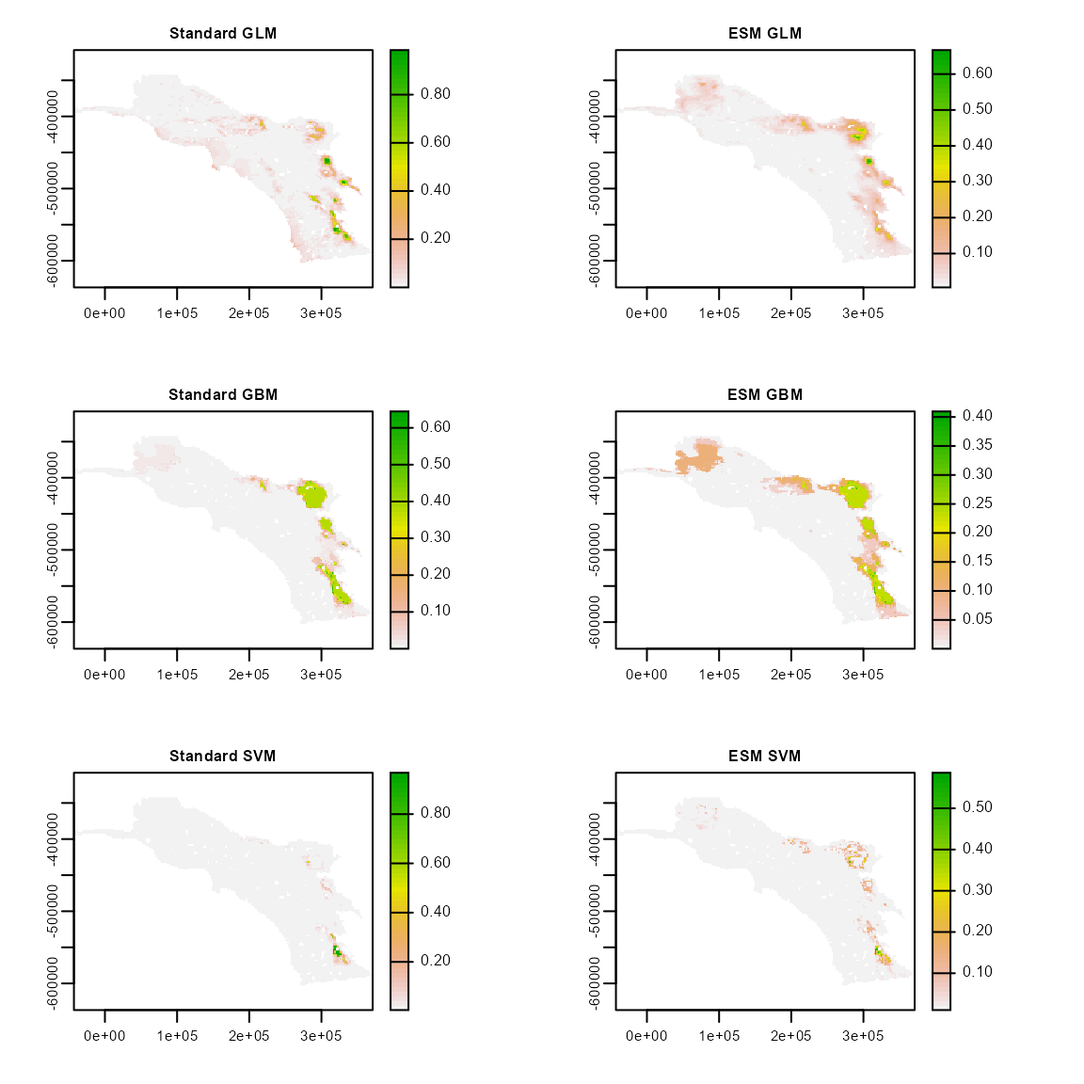
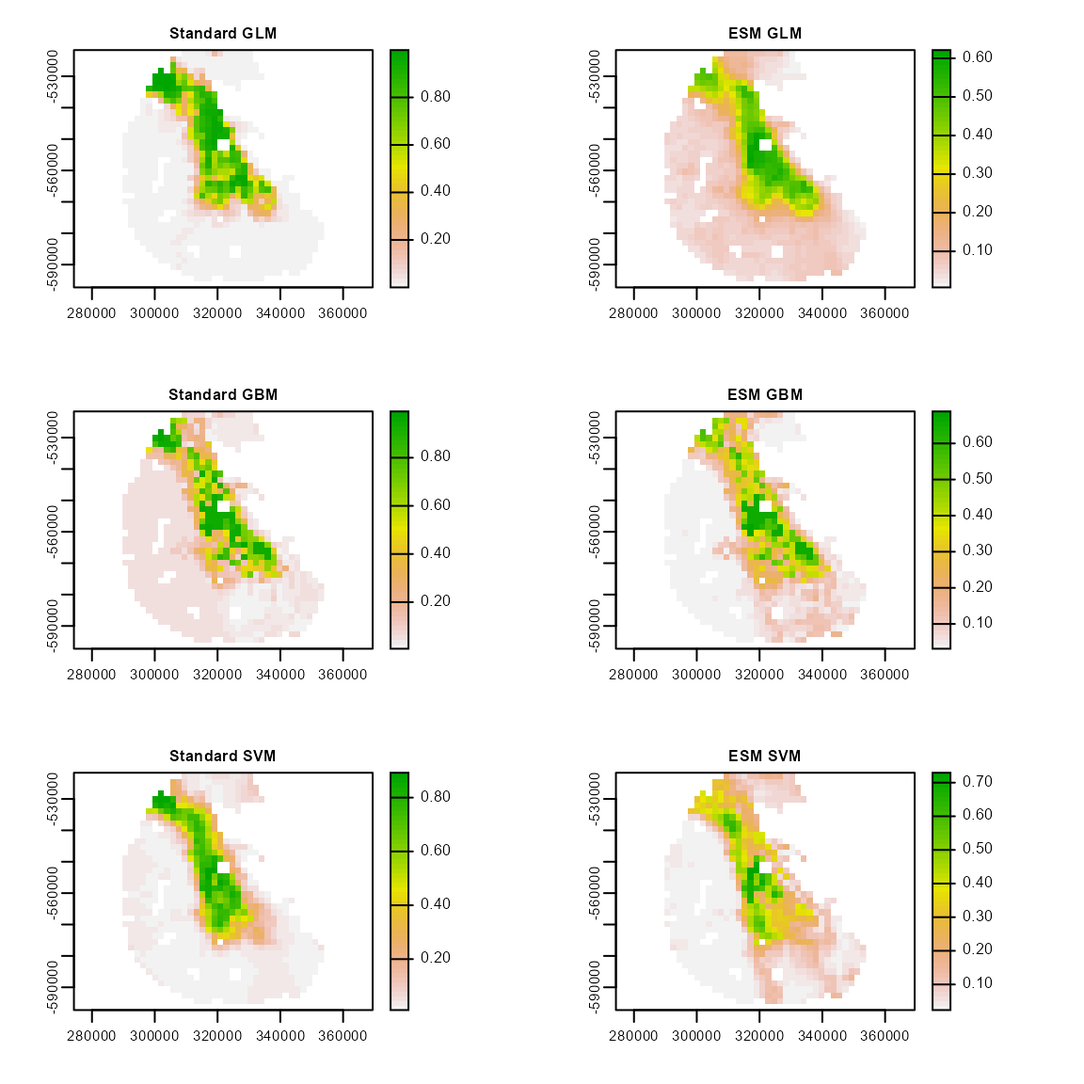
some changes in vignette 5

diff --git a/docs/articles/05_Rare_species_example.html b/docs/articles/05_Rare_species_example.html
@@ -98,68 +98,77 @@
 <div id="intro" class="section level1">
 <h1 class="hasAnchor">
 <a href="#intro" class="anchor"></a>Intro</h1>
-<p>Creating SDMs for rare or poorly known species can be a difficult task. Occurrence data are often limited to only a few observation, which can lead to model overfitting, especially when using many predictor variables to build models. However, researchers are often most interested in building SDMs for rare species, with the intent of identifying potential sampling locations or prioritizing conservation areas.</p>
+<p>Creating SDMs for rare or poorly known species can be a difficult task. Occurrence data are often limited to only a few observation, which can lead to model overfitting, especially when using many predictor variables to build models. However, researchers are often most interested in building SDMs for rare species, as they are often the most threatened and in need of conservation action.</p>
 <p>To address the issues associated with modeling the spatial distributions of rare species, Lomba et al. (2010) and Breiner et al. (2015) proposed the method “ensemble of small models” or ESM. In ESM, many bivariate models with pairwise combinations of each predictor variable, then an ensemble is performed. In <em>flexsdm</em>, the ensemble is created using the average of suitability across all of the “small models”, weighted by Somers’ D (D = 2 * (AUC-.5)). It is important to note that this method does not allow the use of categorical variables (such as soil type).</p>
-</div>
-<div id="dubos-et-al-2021-combine-interesting-approaches-for-modeling-rare-species-" class="section level1">
-<h1 class="hasAnchor">
-<a href="#dubos-et-al-2021-combine-interesting-approaches-for-modeling-rare-species-" class="anchor"></a>Dubos et al 2021 combine interesting approaches for modeling rare species.</h1>
-<p>In this example, we will walk through the process of comparing ESM to traditional modeling approaches for <em>Hesperocyparis stephensonii</em> (Cuyamaca cypress), a conifer tree species that is endemic to southern California. This species is listed as Critically Endangered by the IUCN and is only found in the headwaters of King Creek in San Diego County. The Cedar Fire of 2003 left only 30-40 surviving trees.</p>
+<p>The practical applications of ESMs could include identifying areas for reintroduction of rare species or areas for establishing new populations, especially in the face of climate change. For example, Dubos et al. (2021) used a variation of ESM to identify areas that may remain suitable under climate change for two rare species from Madagascar: the golden mantella frog (<em>Mantella aurantiaca</em>) and the Manapany day gecko (<em>Phelsuma inexpectata</em>).</p>
+<p>In this example, we will walk through the process of comparing ESM to traditional modeling approaches for <em>Hesperocyparis stephensonii</em> (Cuyamaca cypress), a conifer tree species that is endemic to southern California. This species is listed as Critically Endangered by the IUCN and is only found in the headwaters of King Creek in San Diego County. The Cedar Fire of 2003 left only 30-40 surviving trees. In this hypothetical example, we are searching for suitable areas where it might be possible to establish new populations of this species, with the hopes of decreasing the species’ future extinction risk.</p>
 <div id="data" class="section level2">
 <h2 class="hasAnchor">
 <a href="#data" class="anchor"></a>Data</h2>
-<p>For our models, we will use four environmental variables that influence plant distributions in California: available evapotranspiration (aet), climatic water deficit (cwd), maximum temperature of the warmest month (tmx), and minimum temperature of the coldest month (tmn). Our occurrence data include 13 geo-referenced observations downloaded from the online database CalFlora.</p>
+<p>For our models, we will use four environmental variables that influence plant distributions in California: available evapotranspiration (aet), climatic water deficit (cwd), maximum temperature of the warmest month (tmx), and minimum temperature of the coldest month (tmn). Our occurrence data include 21 geo-referenced observations downloaded from the online database Calflora.</p>
 <div class="sourceCode" id="cb1"><pre class="downlit sourceCode r">
 <code class="sourceCode R"><span class="co"># devtools::install_github('sjevelazco/flexsdm')</span>
 <span class="kw"><a href="https://rdrr.io/r/base/library.html">library</a></span><span class="op">(</span><span class="va">flexsdm</span><span class="op">)</span>
 <span class="kw"><a href="https://rdrr.io/r/base/library.html">library</a></span><span class="op">(</span><span class="va"><a href="https://rspatial.org/terra/">terra</a></span><span class="op">)</span>
 <span class="kw"><a href="https://rdrr.io/r/base/library.html">library</a></span><span class="op">(</span><span class="va"><a href="https://dplyr.tidyverse.org">dplyr</a></span><span class="op">)</span>
 
+<span class="co"># environmental data</span>
 <span class="va">somevar</span> <span class="op">&lt;-</span> <span class="fu"><a href="https://rdrr.io/r/base/system.file.html">system.file</a></span><span class="op">(</span><span class="st">"external/somevar.tif"</span>, package <span class="op">=</span> <span class="st">"flexsdm"</span><span class="op">)</span>
-<span class="va">somevar</span> <span class="op">&lt;-</span> <span class="fu">terra</span><span class="fu">::</span><span class="fu"><a href="https://rdrr.io/pkg/terra/man/rast.html">rast</a></span><span class="op">(</span><span class="va">somevar</span><span class="op">)</span> <span class="co"># environmental data</span>
+<span class="va">somevar</span> <span class="op">&lt;-</span> <span class="fu">terra</span><span class="fu">::</span><span class="fu"><a href="https://rdrr.io/pkg/terra/man/rast.html">rast</a></span><span class="op">(</span><span class="va">somevar</span><span class="op">)</span> 
 <span class="fu"><a href="https://rdrr.io/pkg/terra/man/names.html">names</a></span><span class="op">(</span><span class="va">somevar</span><span class="op">)</span> <span class="op">&lt;-</span> <span class="fu"><a href="https://rdrr.io/pkg/terra/man/c.html">c</a></span><span class="op">(</span><span class="st">"aet"</span>, <span class="st">"cwd"</span>, <span class="st">"tmx"</span>, <span class="st">"tmn"</span><span class="op">)</span>
 
-<span class="fu"><a href="https://rdrr.io/r/utils/data.html">data</a></span><span class="op">(</span><span class="st">"hespero"</span><span class="op">)</span>
-
+<span class="co"># species occurence data (presence-only)</span>
+<span class="fu"><a href="https://rdrr.io/r/utils/data.html">data</a></span><span class="op">(</span><span class="va">hespero</span><span class="op">)</span>
 <span class="va">hespero</span> <span class="op">&lt;-</span> <span class="va">hespero</span> <span class="op">%&gt;%</span> <span class="fu">dplyr</span><span class="fu">::</span><span class="fu"><a href="https://dplyr.tidyverse.org/reference/select.html">select</a></span><span class="op">(</span><span class="op">-</span><span class="va">id</span><span class="op">)</span>
 
-<span class="co"># visualize the species occurrences</span>
-<span class="va">layer1</span> <span class="op">&lt;-</span> <span class="op">(</span><span class="va">somevar</span><span class="op">[[</span><span class="fl">1</span><span class="op">]</span><span class="op">]</span><span class="op">)</span>
-<span class="va">layer1</span><span class="op">[</span><span class="op">!</span><span class="fu"><a href="https://rdrr.io/r/base/NA.html">is.na</a></span><span class="op">(</span><span class="va">layer1</span><span class="op">)</span><span class="op">]</span> <span class="op">&lt;-</span> <span class="fl">1</span>
-<span class="va">layer1</span> <span class="op">&lt;-</span> <span class="fu">raster</span><span class="fu">::</span><span class="fu"><a href="https://rdrr.io/pkg/raster/man/raster.html">raster</a></span><span class="op">(</span><span class="va">layer1</span><span class="op">)</span>
+<span class="co"># California ecoregions</span>
+<span class="va">regions</span> <span class="op">&lt;-</span> <span class="fu"><a href="https://rdrr.io/r/base/system.file.html">system.file</a></span><span class="op">(</span><span class="st">"external/regions.tif"</span>, package <span class="op">=</span> <span class="st">"flexsdm"</span><span class="op">)</span>
+<span class="va">regions</span> <span class="op">&lt;-</span> <span class="fu">terra</span><span class="fu">::</span><span class="fu"><a href="https://rdrr.io/pkg/terra/man/rast.html">rast</a></span><span class="op">(</span><span class="va">regions</span><span class="op">)</span>
+<span class="va">regions</span> <span class="op">&lt;-</span> <span class="fu"><a href="https://rdrr.io/pkg/terra/man/as.spatvector.html">as.polygons</a></span><span class="op">(</span><span class="va">regions</span><span class="op">)</span>
+<span class="va">sp_region</span> <span class="op">&lt;-</span> <span class="fu">terra</span><span class="fu">::</span><span class="fu"><a href="https://rdrr.io/pkg/terra/man/subset.html">subset</a></span><span class="op">(</span><span class="va">regions</span>, <span class="va">regions</span><span class="op">$</span><span class="va">category</span> <span class="op">==</span> <span class="st">"SCR"</span><span class="op">)</span> <span class="co"># ecoregion where *Hesperocyparis stephensonii* is found</span>
 
-<span class="fu"><a href="https://rdrr.io/pkg/terra/man/plot.html">plot</a></span><span class="op">(</span><span class="va">layer1</span>, col<span class="op">=</span><span class="st">"gray80"</span>, legend<span class="op">=</span><span class="cn">FALSE</span>, axes<span class="op">=</span><span class="cn">FALSE</span><span class="op">)</span>
-<span class="fu"><a href="https://rdrr.io/pkg/terra/man/lines.html">points</a></span><span class="op">(</span><span class="va">hespero</span><span class="op">[</span>,<span class="fu"><a href="https://rdrr.io/pkg/terra/man/c.html">c</a></span><span class="op">(</span><span class="st">"x"</span>, <span class="st">"y"</span><span class="op">)</span><span class="op">]</span>, col <span class="op">=</span> <span class="st">"#00000480"</span><span class="op">)</span></code></pre></div>
+<span class="co"># visualize the species occurrences</span>
+<span class="fu"><a href="https://rdrr.io/pkg/terra/man/plot.html">plot</a></span><span class="op">(</span>
+  <span class="va">sp_region</span>,
+  col <span class="op">=</span> <span class="st">"gray80"</span>,
+  legend <span class="op">=</span> <span class="cn">FALSE</span>,
+  axes <span class="op">=</span> <span class="cn">FALSE</span>,
+  main <span class="op">=</span> <span class="st">"Hesperocyparis stephensonii occurrences"</span>
+<span class="op">)</span>
+<span class="fu"><a href="https://rdrr.io/pkg/terra/man/lines.html">points</a></span><span class="op">(</span><span class="va">hespero</span><span class="op">[</span>, <span class="fu"><a href="https://rdrr.io/pkg/terra/man/c.html">c</a></span><span class="op">(</span><span class="st">"x"</span>, <span class="st">"y"</span><span class="op">)</span><span class="op">]</span>, col <span class="op">=</span> <span class="st">"black"</span>, pch <span class="op">=</span> <span class="fl">16</span><span class="op">)</span>
+<span class="va">cols</span> <span class="op">&lt;-</span> <span class="fu"><a href="https://rdrr.io/pkg/terra/man/rep.html">rep</a></span><span class="op">(</span><span class="st">"gray80"</span>, <span class="fl">8</span><span class="op">)</span>
+<span class="va">cols</span><span class="op">[</span><span class="va">regions</span><span class="op">$</span><span class="va">category</span> <span class="op">==</span> <span class="st">"SCR"</span><span class="op">]</span> <span class="op">&lt;-</span> <span class="st">"yellow"</span>
+<span class="fu">terra</span><span class="fu">::</span><span class="fu"><a href="https://rdrr.io/pkg/terra/man/inset.html">inset</a></span><span class="op">(</span>
+  <span class="va">regions</span>,
+  loc <span class="op">=</span> <span class="st">"bottomleft"</span>,
+  scale <span class="op">=</span> <span class="fl">.3</span>,
+  col <span class="op">=</span> <span class="va">cols</span>
+<span class="op">)</span></code></pre></div>
 <p><img src="05_Rare_species_example_files/figure-html/raw%20data-1.png" width="576"></p>
 </div>
 <div id="delimit-calibration-area" class="section level2">
 <h2 class="hasAnchor">
 <a href="#delimit-calibration-area" class="anchor"></a>Delimit calibration area</h2>
-<p>First, we must define our model’s calibration area. Because we do not have true absences for this species, the calibration area will be used to generate our pseudo-absence points. The <em>flexsdm</em> package offers several methods for defining the model calibration area. Here, we will use ecoregion data for the California Floristic Province to define our model calibration and prediction area.</p>
+<p>First, we must define our model’s calibration area. The <em>flexsdm</em> package offers several methods for defining the model calibration area. Here, we will use 25-km buffer areas around the presence points to select our pseudo-absence locations.</p>
 <div class="sourceCode" id="cb2"><pre class="downlit sourceCode r">
 <code class="sourceCode R">
-<span class="va">regions</span> <span class="op">&lt;-</span> <span class="fu"><a href="https://rdrr.io/r/base/system.file.html">system.file</a></span><span class="op">(</span><span class="st">"external/regions.tif"</span>, package <span class="op">=</span> <span class="st">"flexsdm"</span><span class="op">)</span>
-<span class="va">regions</span> <span class="op">&lt;-</span> <span class="fu">terra</span><span class="fu">::</span><span class="fu"><a href="https://rdrr.io/pkg/terra/man/rast.html">rast</a></span><span class="op">(</span><span class="va">regions</span><span class="op">)</span>
-<span class="va">regions</span> <span class="op">&lt;-</span> <span class="fu"><a href="https://rdrr.io/pkg/terra/man/as.spatvector.html">as.polygons</a></span><span class="op">(</span><span class="va">regions</span><span class="op">)</span>
-
 <span class="va">ca</span> <span class="op">&lt;-</span> <span class="fu"><a href="../reference/calib_area.html">calib_area</a></span><span class="op">(</span>
   data <span class="op">=</span> <span class="va">hespero</span>,
   x <span class="op">=</span> <span class="st">"x"</span>,
   y <span class="op">=</span> <span class="st">"y"</span>,
-  method <span class="op">=</span> <span class="fu"><a href="https://rdrr.io/pkg/terra/man/c.html">c</a></span><span class="op">(</span><span class="st">"mask"</span>, <span class="va">regions</span>, <span class="st">"category"</span><span class="op">)</span>,
+  method <span class="op">=</span> <span class="fu"><a href="https://rdrr.io/pkg/terra/man/c.html">c</a></span><span class="op">(</span><span class="st">'buffer'</span>, width<span class="op">=</span><span class="fl">25000</span><span class="op">)</span>,
   crs <span class="op">=</span> <span class="fu"><a href="https://rdrr.io/pkg/terra/man/crs.html">crs</a></span><span class="op">(</span><span class="va">somevar</span><span class="op">)</span>
 <span class="op">)</span>
+<span class="co">#&gt; Loading required namespace: rgeos</span>
 
-<span class="co"># visualize the species occurrences</span>
-<span class="va">layer1</span> <span class="op">&lt;-</span> <span class="op">(</span><span class="va">somevar</span><span class="op">[[</span><span class="fl">1</span><span class="op">]</span><span class="op">]</span><span class="op">)</span>
-<span class="va">layer1</span><span class="op">[</span><span class="op">!</span><span class="fu"><a href="https://rdrr.io/r/base/NA.html">is.na</a></span><span class="op">(</span><span class="va">layer1</span><span class="op">)</span><span class="op">]</span> <span class="op">&lt;-</span> <span class="fl">1</span>
-<span class="va">layer1</span> <span class="op">&lt;-</span> <span class="fu">raster</span><span class="fu">::</span><span class="fu"><a href="https://rdrr.io/pkg/raster/man/raster.html">raster</a></span><span class="op">(</span><span class="va">layer1</span><span class="op">)</span>
-
-<span class="fu"><a href="https://rdrr.io/r/graphics/par.html">par</a></span><span class="op">(</span>mfrow <span class="op">=</span> <span class="fu"><a href="https://rdrr.io/pkg/terra/man/c.html">c</a></span><span class="op">(</span><span class="fl">1</span>, <span class="fl">2</span><span class="op">)</span><span class="op">)</span>
-<span class="fu"><a href="https://rdrr.io/pkg/terra/man/plot.html">plot</a></span><span class="op">(</span><span class="va">layer1</span>, col<span class="op">=</span><span class="st">"gray80"</span>, legend<span class="op">=</span><span class="cn">FALSE</span>, axes<span class="op">=</span><span class="cn">FALSE</span><span class="op">)</span>
+<span class="co"># visualize the species occurrences &amp; calibration area</span>
+<span class="fu"><a href="https://rdrr.io/pkg/terra/man/plot.html">plot</a></span><span class="op">(</span>
+  <span class="va">sp_region</span>,
+  col <span class="op">=</span> <span class="st">"gray80"</span>,
+  legend <span class="op">=</span> <span class="cn">FALSE</span>,
+  axes <span class="op">=</span> <span class="cn">FALSE</span>,
+  main <span class="op">=</span> <span class="st">"Calibration area and occurrences"</span><span class="op">)</span>
 <span class="fu"><a href="https://rdrr.io/pkg/terra/man/plot.html">plot</a></span><span class="op">(</span><span class="va">ca</span>, add<span class="op">=</span><span class="cn">TRUE</span><span class="op">)</span>
-<span class="fu"><a href="https://rdrr.io/pkg/terra/man/lines.html">points</a></span><span class="op">(</span><span class="va">hespero</span><span class="op">[</span>,<span class="fu"><a href="https://rdrr.io/pkg/terra/man/c.html">c</a></span><span class="op">(</span><span class="st">"x"</span>, <span class="st">"y"</span><span class="op">)</span><span class="op">]</span>, col <span class="op">=</span> <span class="st">"black"</span>, pch <span class="op">=</span> <span class="fl">16</span><span class="op">)</span>
-<span class="fu"><a href="https://rdrr.io/pkg/terra/man/plot.html">plot</a></span><span class="op">(</span><span class="va">ca</span>, col <span class="op">=</span> <span class="st">"gray80"</span>, legend <span class="op">=</span> <span class="cn">FALSE</span>, axes <span class="op">=</span> <span class="cn">FALSE</span>, main <span class="op">=</span> <span class="st">"Calibration area and occurrences"</span><span class="op">)</span>
 <span class="fu"><a href="https://rdrr.io/pkg/terra/man/lines.html">points</a></span><span class="op">(</span><span class="va">hespero</span><span class="op">[</span>,<span class="fu"><a href="https://rdrr.io/pkg/terra/man/c.html">c</a></span><span class="op">(</span><span class="st">"x"</span>, <span class="st">"y"</span><span class="op">)</span><span class="op">]</span>, col <span class="op">=</span> <span class="st">"black"</span>, pch <span class="op">=</span> <span class="fl">16</span><span class="op">)</span></code></pre></div>
 <p><img src="05_Rare_species_example_files/figure-html/calibration%20area-1.png" width="576"></p>
 </div>
@@ -169,28 +178,38 @@
 <p>As is often the case with rare species, we only have species presence data. However, most SDM methods require either pseudo-absence or background data. Here, we use our calibration area to produce pseudo-absence data that can be used in our SDMs.</p>
 <div class="sourceCode" id="cb3"><pre class="downlit sourceCode r">
 <code class="sourceCode R">
-<span class="co"># Sample 20 times the number of species presences</span>
+<span class="co"># Sample the same number of species presences</span>
 <span class="fu"><a href="https://rdrr.io/r/base/Random.html">set.seed</a></span><span class="op">(</span><span class="fl">10</span><span class="op">)</span>
 <span class="va">psa</span> <span class="op">&lt;-</span> <span class="fu"><a href="../reference/sample_pseudoabs.html">sample_pseudoabs</a></span><span class="op">(</span>
   data <span class="op">=</span> <span class="va">hespero</span>,
   x <span class="op">=</span> <span class="st">"x"</span>,
   y <span class="op">=</span> <span class="st">"y"</span>,
-  n <span class="op">=</span> <span class="fu"><a href="https://rdrr.io/r/base/sum.html">sum</a></span><span class="op">(</span><span class="va">hespero</span><span class="op">$</span><span class="va">pr_ab</span><span class="op">)</span> <span class="op">*</span> <span class="fl">20</span>,
+  n <span class="op">=</span> <span class="fu"><a href="https://rdrr.io/r/base/sum.html">sum</a></span><span class="op">(</span><span class="va">hespero</span><span class="op">$</span><span class="va">pr_ab</span><span class="op">)</span>, <span class="co"># selecting number of pseudo-absence points that is equal to number of presences</span>
   method <span class="op">=</span> <span class="st">"random"</span>,
   rlayer <span class="op">=</span> <span class="va">somevar</span>,
   calibarea <span class="op">=</span> <span class="va">ca</span>
 <span class="op">)</span>
 
-<span class="fu"><a href="https://rdrr.io/pkg/terra/man/plot.html">plot</a></span><span class="op">(</span><span class="va">ca</span>, col<span class="op">=</span><span class="st">"gray80"</span>, legend<span class="op">=</span><span class="cn">FALSE</span>, axes<span class="op">=</span><span class="cn">FALSE</span>, main <span class="op">=</span> <span class="st">"Presence = yellow, Pseudo-absence = black"</span><span class="op">)</span>
+<span class="co"># Visualize species presences and pseudo-absences</span>
+<span class="fu"><a href="https://rdrr.io/pkg/terra/man/plot.html">plot</a></span><span class="op">(</span>
+  <span class="va">sp_region</span>,
+  col <span class="op">=</span> <span class="st">"gray80"</span>,
+  legend <span class="op">=</span> <span class="cn">FALSE</span>,
+  axes <span class="op">=</span> <span class="cn">FALSE</span>,
+  xlim <span class="op">=</span> <span class="fu"><a href="https://rdrr.io/pkg/terra/man/c.html">c</a></span><span class="op">(</span><span class="fl">289347</span>, <span class="fl">353284</span><span class="op">)</span>,
+  ylim <span class="op">=</span> <span class="fu"><a href="https://rdrr.io/pkg/terra/man/c.html">c</a></span><span class="op">(</span><span class="op">-</span><span class="fl">598052</span>,  <span class="op">-</span><span class="fl">520709</span><span class="op">)</span>,
+  main <span class="op">=</span> <span class="st">"Presence = yellow, Pseudo-absence = black"</span><span class="op">)</span>
+<span class="fu"><a href="https://rdrr.io/pkg/terra/man/plot.html">plot</a></span><span class="op">(</span><span class="va">ca</span>, add<span class="op">=</span><span class="cn">TRUE</span><span class="op">)</span>
 <span class="fu"><a href="https://rdrr.io/pkg/terra/man/lines.html">points</a></span><span class="op">(</span><span class="va">psa</span><span class="op">[</span>,<span class="fu"><a href="https://rdrr.io/pkg/terra/man/c.html">c</a></span><span class="op">(</span><span class="st">"x"</span>, <span class="st">"y"</span><span class="op">)</span><span class="op">]</span>, cex<span class="op">=</span><span class="fl">0.8</span>, pch<span class="op">=</span><span class="fl">16</span>, col <span class="op">=</span> <span class="st">"black"</span><span class="op">)</span> <span class="co"># Pseudo-absences</span>
 <span class="fu"><a href="https://rdrr.io/pkg/terra/man/lines.html">points</a></span><span class="op">(</span><span class="va">hespero</span><span class="op">[</span>,<span class="fu"><a href="https://rdrr.io/pkg/terra/man/c.html">c</a></span><span class="op">(</span><span class="st">"x"</span>, <span class="st">"y"</span><span class="op">)</span><span class="op">]</span>, col <span class="op">=</span> <span class="st">"yellow"</span>, pch <span class="op">=</span> <span class="fl">16</span>, cex <span class="op">=</span> <span class="fl">1.5</span><span class="op">)</span> <span class="co"># Presences</span></code></pre></div>
 <p><img src="05_Rare_species_example_files/figure-html/pseudo-absence%20data-1.png" width="576"></p>
 <div class="sourceCode" id="cb4"><pre class="downlit sourceCode r">
 <code class="sourceCode R">
+
 <span class="co"># Bind a presences and pseudo-absences</span>
 <span class="va">hespero_pa</span> <span class="op">&lt;-</span> <span class="fu"><a href="https://dplyr.tidyverse.org/reference/bind.html">bind_rows</a></span><span class="op">(</span><span class="va">hespero</span>, <span class="va">psa</span><span class="op">)</span>
 <span class="va">hespero_pa</span> <span class="co"># Presence-Pseudo-absence database</span>
-<span class="co">#&gt; # A tibble: 441 x 3</span>
+<span class="co">#&gt; # A tibble: 42 x 3</span>
 <span class="co">#&gt;          x        y pr_ab</span>
 <span class="co">#&gt;      &lt;dbl&gt;    &lt;dbl&gt; &lt;dbl&gt;</span>
 <span class="co">#&gt;  1 316923. -557843.     1</span>
@@ -203,12 +222,12 @@
 <span class="co">#&gt;  8 317050. -559043.     1</span>
 <span class="co">#&gt;  9 316655. -559928.     1</span>
 <span class="co">#&gt; 10 316418. -567439.     1</span>
-<span class="co">#&gt; # ... with 431 more rows</span></code></pre></div>
+<span class="co">#&gt; # ... with 32 more rows</span></code></pre></div>
 </div>
 <div id="partition-data-for-evaluating-models" class="section level2">
 <h2 class="hasAnchor">
 <a href="#partition-data-for-evaluating-models" class="anchor"></a>Partition data for evaluating models</h2>
-<p>To evaluate model performance, we need to specify data for testing and training. <em>flexsdm</em> offers a range of random and spatial and random data partition methods for evaluating SDMs. Here we will use repeated K-fold cross-validation.</p>
+<p>To evaluate model performance, we need to specify data for testing and training. <em>flexsdm</em> offers a range of random and spatial and random data partition methods for evaluating SDMs. Here we will use repeated K-fold cross-validation, which is a suitable partition approach for performing ESM.</p>
 <div class="sourceCode" id="cb5"><pre class="downlit sourceCode r">
 <code class="sourceCode R">
 <span class="fu"><a href="https://rdrr.io/r/base/Random.html">set.seed</a></span><span class="op">(</span><span class="fl">10</span><span class="op">)</span>
@@ -223,7 +242,7 @@
 <div id="extracting-environmental-values" class="section level2">
 <h2 class="hasAnchor">
 <a href="#extracting-environmental-values" class="anchor"></a>Extracting environmental values</h2>
-<p>Next, we extract the values of our environmental predictors at the presence and pseudo-absence locations.</p>
+<p>Next, we extract the values of our four environmental predictors at the presence and pseudo-absence locations.</p>
 <div class="sourceCode" id="cb6"><pre class="downlit sourceCode r">
 <code class="sourceCode R">
 <span class="va">hespero_pa3</span> <span class="op">&lt;-</span>
@@ -564,10 +583,10 @@
 <span id="cb8-95"><a href="#cb8-95" aria-hidden="true" tabindex="-1"></a><span class="co">#&gt; Predicting ensemble of small models</span></span></code></pre></div>
 </div>
 </div>
-<div id="comparing-the-models" class="section level2">
+<div id="comparing-our-models" class="section level2">
 <h2 class="hasAnchor">
-<a href="#comparing-the-models" class="anchor"></a>Comparing the models?</h2>
-<p>I am not sure if we want to/how we want to compare these models…with maps? with performance metrics?</p>
+<a href="#comparing-our-models" class="anchor"></a>Comparing our models</h2>
+<p>First, let’s take a look at the spatial predictions for our models. The spatial outputs suggest that the standard models tend to predict broader areas with high suitability values that the ESMs.</p>
 <div class="sourceCode" id="cb9"><pre class="downlit sourceCode r">
 <code class="sourceCode R">
 <span class="fu"><a href="https://rdrr.io/r/graphics/par.html">par</a></span><span class="op">(</span>mfrow <span class="op">=</span> <span class="fu"><a href="https://rdrr.io/pkg/terra/man/c.html">c</a></span><span class="op">(</span><span class="fl">3</span>, <span class="fl">2</span><span class="op">)</span><span class="op">)</span>
@@ -585,96 +604,92 @@
 <p><img src="05_Rare_species_example_files/figure-html/comparison%20maps-1.png" width="576"></p>
 <div class="sourceCode" id="cb10"><pre class="downlit sourceCode r">
 <code class="sourceCode R"><span class="co">#points(hespero$x, hespero$y, pch = 19)</span></code></pre></div>
+<p>Next, we look at some performance metrics for our models, which are based on our repeated k-folds cross-validation partition method. This can be easily done using the “sdm_summarize()” function in <em>flexsdm</em>. Here, we can see that AUC, TSS, and Jaccard index are higher for the ESMs than their corresponding standard model. However, the Boyce index and the Inverse Mean Absolute Error are slightly higher for the standard models.</p>
 <div class="sourceCode" id="cb11"><pre class="downlit sourceCode r">
-<code class="sourceCode R">
-<span class="va">merge_df</span> <span class="op">&lt;-</span> <span class="fu"><a href="../reference/sdm_summarize.html">sdm_summarize</a></span><span class="op">(</span>models <span class="op">=</span> <span class="fu"><a href="https://rdrr.io/r/base/list.html">list</a></span><span class="op">(</span><span class="va">mglm</span>, <span class="va">mgbm</span>, <span class="va">msvm</span>, <span class="va">eglm</span>, <span class="va">egbm</span>, <span class="va">esvm</span><span class="op">)</span><span class="op">)</span>
-
+<code class="sourceCode R"><span class="va">merge_df</span> <span class="op">&lt;-</span> <span class="fu"><a href="../reference/sdm_summarize.html">sdm_summarize</a></span><span class="op">(</span>models <span class="op">=</span> <span class="fu"><a href="https://rdrr.io/r/base/list.html">list</a></span><span class="op">(</span><span class="va">mglm</span>, <span class="va">mgbm</span>, <span class="va">msvm</span>, <span class="va">eglm</span>, <span class="va">egbm</span>, <span class="va">esvm</span><span class="op">)</span><span class="op">)</span>
 
 <span class="fu">knitr</span><span class="fu">::</span><span class="fu"><a href="https://rdrr.io/pkg/knitr/man/kable.html">kable</a></span><span class="op">(</span>
   <span class="va">merge_df</span> <span class="op">%&gt;%</span> <span class="fu">dplyr</span><span class="fu">::</span><span class="fu"><a href="https://dplyr.tidyverse.org/reference/select.html">select</a></span><span class="op">(</span>
     <span class="va">model</span>,
-    <span class="va">AUC_mean</span>,
-    <span class="va">FPB_mean</span>,
-    <span class="va">BOYCE_mean</span>,
-    <span class="va">TSS_mean</span>,
-    <span class="va">JACCARD_mean</span>,
-    <span class="va">IMAE_mean</span>
+    AUC <span class="op">=</span> <span class="va">AUC_mean</span>,
+    TSS <span class="op">=</span> <span class="va">TSS_mean</span>,
+    JACCARD <span class="op">=</span> <span class="va">JACCARD_mean</span>,
+    BOYCE <span class="op">=</span> <span class="va">BOYCE_mean</span>,
+    IMAE <span class="op">=</span> <span class="va">IMAE_mean</span>
   <span class="op">)</span>
 <span class="op">)</span></code></pre></div>
 <table class="table">
 <thead><tr class="header">
 <th align="left">model</th>
-<th align="right">AUC_mean</th>
-<th align="right">FPB_mean</th>
-<th align="right">BOYCE_mean</th>
-<th align="right">TSS_mean</th>
-<th align="right">JACCARD_mean</th>
-<th align="right">IMAE_mean</th>
+<th align="right">AUC</th>
+<th align="right">TSS</th>
+<th align="right">JACCARD</th>
+<th align="right">BOYCE</th>
+<th align="right">IMAE</th>
 </tr></thead>
 <tbody>
 <tr class="odd">
 <td align="left">glm</td>
-<td align="right">0.9338095</td>
-<td align="right">0.7412127</td>
-<td align="right">0.9965994</td>
-<td align="right">0.8434762</td>
-<td align="right">0.3706064</td>
-<td align="right">0.9309455</td>
+<td align="right">0.847900</td>
+<td align="right">0.653</td>
+<td align="right">0.6976190</td>
+<td align="right">0.9931393</td>
+<td align="right">0.7575102</td>
 </tr>
 <tr class="even">
 <td align="left">gbm</td>
-<td align="right">0.9519107</td>
-<td align="right">0.7354805</td>
-<td align="right">0.9959957</td>
-<td align="right">0.8606667</td>
-<td align="right">0.3677403</td>
-<td align="right">0.9426360</td>
+<td align="right">0.882200</td>
+<td align="right">0.760</td>
+<td align="right">0.7839524</td>
+<td align="right">0.9966259</td>
+<td align="right">0.7683093</td>
 </tr>
 <tr class="odd">
 <td align="left">svm</td>
-<td align="right">0.9570357</td>
-<td align="right">1.2948034</td>
-<td align="right">0.9987341</td>
-<td align="right">0.9299524</td>
-<td align="right">0.6474017</td>
-<td align="right">0.9528656</td>
+<td align="right">0.916600</td>
+<td align="right">0.793</td>
+<td align="right">0.8113333</td>
+<td align="right">0.9961037</td>
+<td align="right">0.7214870</td>
 </tr>
 <tr class="even">
 <td align="left">esm_glm</td>
-<td align="right">0.9146786</td>
-<td align="right">0.5546106</td>
-<td align="right">0.9927700</td>
-<td align="right">0.8485714</td>
-<td align="right">0.2773053</td>
-<td align="right">0.9177112</td>
+<td align="right">0.884000</td>
+<td align="right">0.764</td>
+<td align="right">0.7972857</td>
+<td align="right">0.9888158</td>
+<td align="right">0.7058935</td>
 </tr>
 <tr class="odd">
 <td align="left">esm_gbm</td>
-<td align="right">0.9536250</td>
-<td align="right">0.7521095</td>
-<td align="right">0.9960594</td>
-<td align="right">0.8661905</td>
-<td align="right">0.3760548</td>
-<td align="right">0.9373412</td>
+<td align="right">0.927725</td>
+<td align="right">0.788</td>
+<td align="right">0.8086667</td>
+<td align="right">0.9944513</td>
+<td align="right">0.7462015</td>
 </tr>
 <tr class="even">
 <td align="left">esm_svm</td>
-<td align="right">0.9368571</td>
-<td align="right">1.0240869</td>
-<td align="right">0.9966100</td>
-<td align="right">0.8853810</td>
-<td align="right">0.5120435</td>
-<td align="right">0.9350905</td>
+<td align="right">0.936300</td>
+<td align="right">0.828</td>
+<td align="right">0.8532857</td>
+<td align="right">0.9923420</td>
+<td align="right">0.7131791</td>
 </tr>
 </tbody>
 </table>
 </div>
+<div id="conclusions" class="section level2">
+<h2 class="hasAnchor">
+<a href="#conclusions" class="anchor"></a>Conclusions</h2>
+<p>Modeling decisions are context-dependent and must be made on a case-by-case basis. However, ESM is a useful approach for practitioners who are interested in modeling very rare species and want to avoid common model overfitting issues. As always when producing SDMs for “real-world” applications, it is important to consider spatial prediction patterns along with multiple model performance metrics.</p>
 </div>
-<div id="references" class="section level1">
-<h1 class="hasAnchor">
-<a href="#references" class="anchor"></a>References</h1>
+<div id="references" class="section level2">
+<h2 class="hasAnchor">
+<a href="#references" class="anchor"></a>References</h2>
 <ol style="list-style-type: decimal">
-<li>Lomba, A., L. Pellissier, C. Randin, J. Vicente, F. Moreira, J. Honrado, and A. Guisan. 2010. Overcoming the rare species modelling paradox: A novel hierarchical framework applied to an Iberian endemic plant. Biological conservation 143:2647–2657.</li>
+<li>Lomba, A., L. Pellissier, C. Randin, J. Vicente, F. Moreira, J. Honrado, and A. Guisan. 2010. Overcoming the rare species modelling paradox: A novel hierarchical framework applied to an Iberian endemic plant. Biological conservation 143:2647–2657. <a href="https://doi.org/10.1016/j.biocon.2010.07.007" class="uri">https://doi.org/10.1016/j.biocon.2010.07.007</a>
+</li>
 <li>Breiner, F. T., Guisan, A., Bergamini, A., &amp; Nobis, M. P. (2015). Overcoming limitations of modelling rare species by using ensembles of small models. Methods in Ecology and Evolution, 6(10), 1210–1218. <a href="https://doi.org/10.1111/2041-210X.12403" class="uri">https://doi.org/10.1111/2041-210X.12403</a>
 </li>
 <li>Breiner, F. T., Nobis, M. P., Bergamini, A., &amp; Guisan, A. (2018). Optimizing ensembles of small models for predicting the distribution of species with few occurrences. Methods in Ecology and Evolution, 9(4), 802–808. <a href="https://doi.org/10.1111/2041-210X.12957" class="uri">https://doi.org/10.1111/2041-210X.12957</a>
@@ -682,6 +697,7 @@
 <li>Dubos, N., Montfort, F., Grinand, C., Nourtier, M., Deso, G., Probst, J.-M., Razafimanahaka, J. H., Andriantsimanarilafy, R. R., Rakotondrasoa, E. F., Razafindraibe, P., Jenkins, R., &amp; Crottini, A. (2021). Are narrow-ranging species doomed to extinction? Projected dramatic decline in future climate suitability of two highly threatened species. Perspectives in Ecology and Conservation, S2530064421000894. <a href="https://doi.org/10.1016/j.pecon.2021.10.002" class="uri">https://doi.org/10.1016/j.pecon.2021.10.002</a>
 </li>
 </ol>
+</div>
 </div>
   </div>
 
